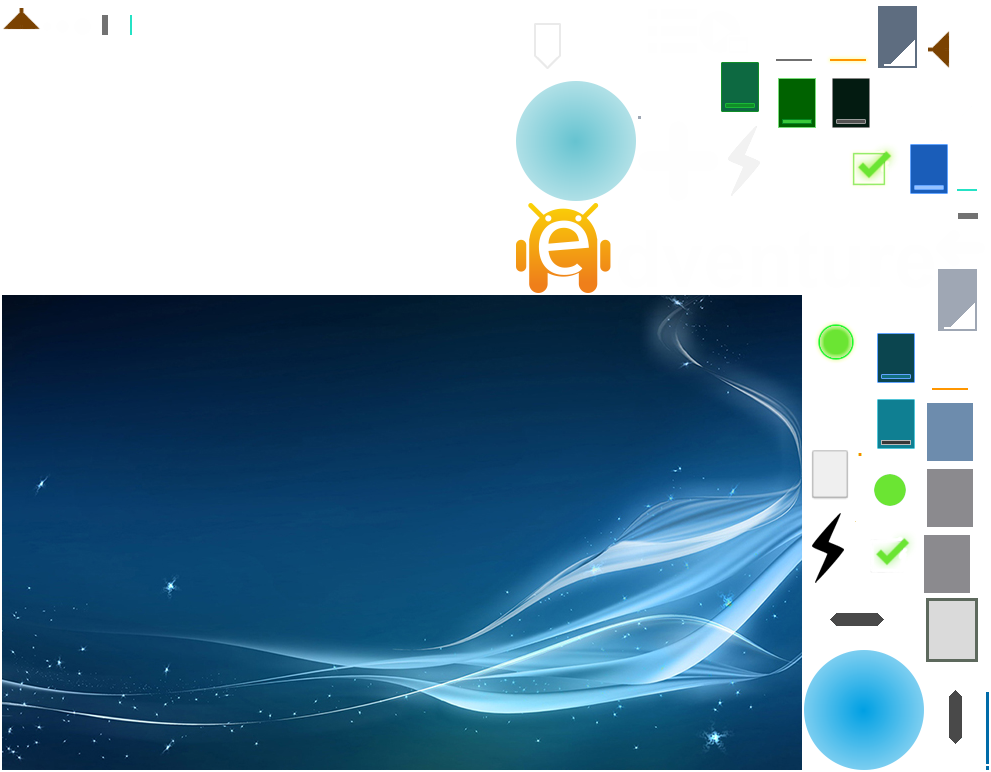
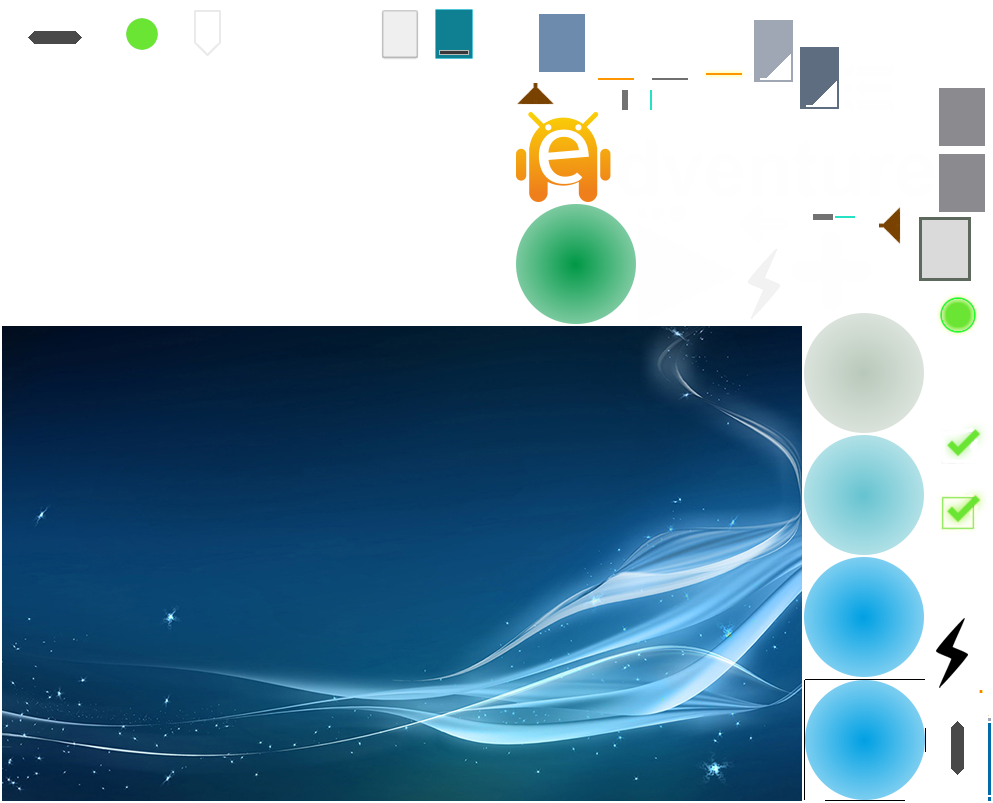
Added background, changed buttons design, etc..

diff --git a/my-game/src/com/randombot/mygame/MyGame.java b/my-game/src/com/randombot/mygame/MyGame.java
@@ -13,7 +13,7 @@ public class MyGame implements ApplicationListener {
 	
 	public BaseScreen showingScreen;
 	private Resolver resolver;
-	private LoadManager screenManager;
+	private LoadManager loadManager;
 	private TransitionManager transitionManager;
 	
 	//////////////////////////////////////////////////////////////////////////////////////////
@@ -29,9 +29,9 @@ public class MyGame implements ApplicationListener {
 	@Override
 	public void create() {
 		this.transitionManager = new TransitionManager();
-		this.screenManager = new LoadManager(this, this.resolver, this.transitionManager);
-		this.showingScreen = this.screenManager;
-		this.showingScreen.create();
+		this.loadManager = new LoadManager(this, this.resolver, this.transitionManager);
+		this.showingScreen = this.loadManager;
+		this.showingScreen.create();		
 		if (PRE_MARKET){
 			MarketUtils.setUp();	
 		}
@@ -39,20 +39,21 @@ public class MyGame implements ApplicationListener {
 
 	@Override
 	public void dispose() {
-		this.screenManager.dispose();
+		this.loadManager.dispose();
 		this.transitionManager.dispose();
 		System.exit(0);
 	}
 
 	@Override
 	public void render() {	
-		this.showingScreen.update(Gdx.graphics.getDeltaTime());
+		float delta = Gdx.graphics.getDeltaTime();
+		this.showingScreen.update(delta);
 		this.showingScreen.draw();
 	}
 
 	@Override
 	public void resize(int width, int height) {
-		this.screenManager.resize();
+		this.loadManager.resize();
 	}
 
 	@Override

diff --git a/my-game/src/com/randombot/mygame/screens/Menu.java b/my-game/src/com/randombot/mygame/screens/Menu.java
@@ -8,6 +8,7 @@ import com.badlogic.gdx.scenes.scene2d.Actor;
 import com.badlogic.gdx.scenes.scene2d.InputEvent;
 import com.badlogic.gdx.scenes.scene2d.ui.Button;
 import com.badlogic.gdx.scenes.scene2d.ui.Image;
+import com.badlogic.gdx.scenes.scene2d.ui.ImageButton;
 import com.badlogic.gdx.scenes.scene2d.ui.Table;
 import com.badlogic.gdx.scenes.scene2d.ui.TextButton;
 import com.badlogic.gdx.scenes.scene2d.utils.ClickListener;
@@ -35,11 +36,11 @@ public class Menu extends BaseScreen {
 		.button("EXIT", true).key(Keys.ENTER, true)
 		.button("Keep playing", false).key(Keys.BACK, false).key(Keys.BACKSPACE, false);
 
-		Image logo = new Image(skin, "ic_logo");
+		Image logo = new Image(skin, "ic_logo");		
 		logo.setScaling(Scaling.fit);
 
 		final Button play, help, credits, music, ranking;
-		play = new TextButton("Play", skin);
+		play = new ImageButton(skin, "ic_playgame");
 		help = new TextButton("Help", skin);
 		credits = new TextButton("Credits", skin);
 		music = new TextButton("Music", skin, "toggle");

diff --git a/my-game/src/com/randombot/mygame/screens/LoadManager.java b/my-game/src/com/randombot/mygame/screens/LoadManager.java
@@ -87,6 +87,9 @@ public class LoadManager extends BaseScreen {
 					
 					skin = am.get(SKIN_SRC, Skin.class);
 
+					Background bg = new Background(skin);
+					stage.addActor(bg);
+					
 					menu = new Menu();
 					menu.create();
 					
@@ -97,7 +100,7 @@ public class LoadManager extends BaseScreen {
 					credits.create();
 					
 					play = new Play();
-					play.create();
+					play.create();					
 					
 					transitionManager.initialize();
 					

diff --git a/my-game/src/com/randombot/mygame/screens/Background.java b/my-game/src/com/randombot/mygame/screens/Background.java
@@ -1,0 +1,14 @@
+package com.randombot.mygame.screens;
+
+import com.badlogic.gdx.scenes.scene2d.ui.Image;
+import com.badlogic.gdx.scenes.scene2d.ui.Skin;
+
+public class Background extends Image {
+	
+	public Background(Skin skin) {
+		super(skin, "bg");
+		setBounds(0, 0, BaseScreen.getStage().getWidth(), BaseScreen.getStage().getHeight());
+	}
+	
+	
+}

diff --git a/my-game/src/com/randombot/mygame/screens/BaseScreen.java b/my-game/src/com/randombot/mygame/screens/BaseScreen.java
@@ -27,6 +27,7 @@ public class BaseScreen {
 	protected static Help help;
 	protected static Credits credits;
 	protected static Play play;
+	protected static Background bg;
 
 	protected BaseScreen previousScreen;
 	protected Table root;

diff --git a/my-game/src/com/randombot/mygame/screens/transitions/TransitionManager.java b/my-game/src/com/randombot/mygame/screens/transitions/TransitionManager.java
@@ -66,6 +66,7 @@ public class TransitionManager extends BaseScreen {
 		nextFbo.begin();
 		nextScreen.draw();
 		nextFbo.end();	
+		
 		return this;
 	}
 
